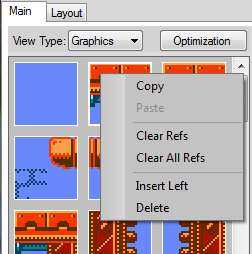
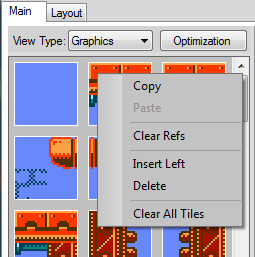
MAPeD: tile operations: "Clear All Refs" renamed to "Clear All Tiles"

diff --git a/src/MAPeD/src/MainForm.Designer.cs b/src/MAPeD/src/MainForm.Designer.cs
@@ -207,6 +207,7 @@ namespace MAPeD
 			this.CheckBoxTileEditorLock = new System.Windows.Forms.CheckBox();
 			this.PBoxTilePreview = new System.Windows.Forms.PictureBox();
 			this.TabScreenEditor = new System.Windows.Forms.TabPage();
+			this.BtnPatterns = new System.Windows.Forms.Button();
 			this.BtnTilesBlocks = new System.Windows.Forms.Button();
 			this.groupBox8 = new System.Windows.Forms.GroupBox();
 			this.RBtnScreenEditModeLayout = new System.Windows.Forms.RadioButton();
@@ -318,10 +319,11 @@ namespace MAPeD
 			this.pasteTileToolStripMenuItem = new System.Windows.Forms.ToolStripMenuItem();
 			this.separatorToolStripMenuItem4 = new System.Windows.Forms.ToolStripSeparator();
 			this.clearTileToolStripMenuItem = new System.Windows.Forms.ToolStripMenuItem();
-			this.clearAllTileToolStripMenuItem = new System.Windows.Forms.ToolStripMenuItem();
 			this.toolStripSeparator21 = new System.Windows.Forms.ToolStripSeparator();
 			this.insertLeftTileToolStripMenuItem = new System.Windows.Forms.ToolStripMenuItem();
 			this.deleteTileToolStripMenuItem3 = new System.Windows.Forms.ToolStripMenuItem();
+			this.toolStripSeparator28 = new System.Windows.Forms.ToolStripSeparator();
+			this.clearAllTilesToolStripMenuItem = new System.Windows.Forms.ToolStripMenuItem();
 			this.ContextMenuBlocksList = new System.Windows.Forms.ContextMenuStrip(this.components);
 			this.copyBlockToolStripMenuItem = new System.Windows.Forms.ToolStripMenuItem();
 			this.pasteBlockCloneToolStripMenuItem = new System.Windows.Forms.ToolStripMenuItem();
@@ -343,7 +345,6 @@ namespace MAPeD
 			this.toolStripMenuItem2 = new System.Windows.Forms.ToolStripMenuItem();
 			this.colorDialogEntity = new System.Windows.Forms.ColorDialog();
 			this.EntityLoadBitmap_openFileDialog = new System.Windows.Forms.OpenFileDialog();
-			this.BtnPatterns = new System.Windows.Forms.Button();
 			this.ContextMenuEntitiesTreeGroup.SuspendLayout();
 			this.MenuStrip.SuspendLayout();
 			this.tabControlMainLayout.SuspendLayout();
@@ -1937,6 +1938,16 @@ namespace MAPeD
 			this.TabScreenEditor.TabIndex = 1;
 			this.TabScreenEditor.Text = "Screens";
 			// 
+			// BtnPatterns
+			// 
+			this.BtnPatterns.Location = new System.Drawing.Point(678, 106);
+			this.BtnPatterns.Name = "BtnPatterns";
+			this.BtnPatterns.Size = new System.Drawing.Size(80, 23);
+			this.BtnPatterns.TabIndex = 53;
+			this.BtnPatterns.Text = "Patterns";
+			this.BtnPatterns.UseVisualStyleBackColor = true;
+			this.BtnPatterns.Click += new System.EventHandler(this.BtnPatternsClick_Event);
+			// 
 			// BtnTilesBlocks
 			// 
 			this.BtnTilesBlocks.Location = new System.Drawing.Point(678, 78);
@@ -3063,64 +3074,70 @@ namespace MAPeD
 									this.pasteTileToolStripMenuItem,
 									this.separatorToolStripMenuItem4,
 									this.clearTileToolStripMenuItem,
-									this.clearAllTileToolStripMenuItem,
 									this.toolStripSeparator21,
 									this.insertLeftTileToolStripMenuItem,
-									this.deleteTileToolStripMenuItem3});
+									this.deleteTileToolStripMenuItem3,
+									this.toolStripSeparator28,
+									this.clearAllTilesToolStripMenuItem});
 			this.ContextMenuTilesList.Name = "ContextMenuTilesList";
-			this.ContextMenuTilesList.Size = new System.Drawing.Size(144, 148);
+			this.ContextMenuTilesList.Size = new System.Drawing.Size(153, 176);
 			// 
 			// copyTileToolStripMenuItem
 			// 
 			this.copyTileToolStripMenuItem.Name = "copyTileToolStripMenuItem";
-			this.copyTileToolStripMenuItem.Size = new System.Drawing.Size(143, 22);
+			this.copyTileToolStripMenuItem.Size = new System.Drawing.Size(152, 22);
 			this.copyTileToolStripMenuItem.Text = "Copy";
 			this.copyTileToolStripMenuItem.Click += new System.EventHandler(this.CopyTileToolStripMenuItemClick_Event);
 			// 
 			// pasteTileToolStripMenuItem
 			// 
 			this.pasteTileToolStripMenuItem.Name = "pasteTileToolStripMenuItem";
-			this.pasteTileToolStripMenuItem.Size = new System.Drawing.Size(143, 22);
+			this.pasteTileToolStripMenuItem.Size = new System.Drawing.Size(152, 22);
 			this.pasteTileToolStripMenuItem.Text = "Paste";
 			this.pasteTileToolStripMenuItem.Click += new System.EventHandler(this.PasteTileToolStripMenuItemClick_Event);
 			// 
 			// separatorToolStripMenuItem4
 			// 
 			this.separatorToolStripMenuItem4.Name = "separatorToolStripMenuItem4";
-			this.separatorToolStripMenuItem4.Size = new System.Drawing.Size(140, 6);
+			this.separatorToolStripMenuItem4.Size = new System.Drawing.Size(149, 6);
 			// 
 			// clearTileToolStripMenuItem
 			// 
 			this.clearTileToolStripMenuItem.Name = "clearTileToolStripMenuItem";
-			this.clearTileToolStripMenuItem.Size = new System.Drawing.Size(143, 22);
+			this.clearTileToolStripMenuItem.Size = new System.Drawing.Size(152, 22);
 			this.clearTileToolStripMenuItem.Text = "Clear Refs";
 			this.clearTileToolStripMenuItem.Click += new System.EventHandler(this.ClearTileToolStripMenuItemClick_Event);
-			// 
-			// clearAllTileToolStripMenuItem
-			// 
-			this.clearAllTileToolStripMenuItem.Name = "clearAllTileToolStripMenuItem";
-			this.clearAllTileToolStripMenuItem.Size = new System.Drawing.Size(143, 22);
-			this.clearAllTileToolStripMenuItem.Text = "Clear All Refs";
-			this.clearAllTileToolStripMenuItem.Click += new System.EventHandler(this.ClearAllTileToolStripMenuItemClick_Event);
 			// 
 			// toolStripSeparator21
 			// 
 			this.toolStripSeparator21.Name = "toolStripSeparator21";
-			this.toolStripSeparator21.Size = new System.Drawing.Size(140, 6);
+			this.toolStripSeparator21.Size = new System.Drawing.Size(149, 6);
 			// 
 			// insertLeftTileToolStripMenuItem
 			// 
 			this.insertLeftTileToolStripMenuItem.Name = "insertLeftTileToolStripMenuItem";
-			this.insertLeftTileToolStripMenuItem.Size = new System.Drawing.Size(143, 22);
+			this.insertLeftTileToolStripMenuItem.Size = new System.Drawing.Size(152, 22);
 			this.insertLeftTileToolStripMenuItem.Text = "Insert Left";
 			this.insertLeftTileToolStripMenuItem.Click += new System.EventHandler(this.InsertLeftTileToolStripMenuItemClick_Event);
 			// 
 			// deleteTileToolStripMenuItem3
 			// 
 			this.deleteTileToolStripMenuItem3.Name = "deleteTileToolStripMenuItem3";
-			this.deleteTileToolStripMenuItem3.Size = new System.Drawing.Size(143, 22);
+			this.deleteTileToolStripMenuItem3.Size = new System.Drawing.Size(152, 22);
 			this.deleteTileToolStripMenuItem3.Text = "Delete";
 			this.deleteTileToolStripMenuItem3.Click += new System.EventHandler(this.DeleteTileToolStripMenuItem3Click_Event);
+			// 
+			// toolStripSeparator28
+			// 
+			this.toolStripSeparator28.Name = "toolStripSeparator28";
+			this.toolStripSeparator28.Size = new System.Drawing.Size(149, 6);
+			// 
+			// clearAllTilesToolStripMenuItem
+			// 
+			this.clearAllTilesToolStripMenuItem.Name = "clearAllTilesToolStripMenuItem";
+			this.clearAllTilesToolStripMenuItem.Size = new System.Drawing.Size(152, 22);
+			this.clearAllTilesToolStripMenuItem.Text = "Clear All Tiles";
+			this.clearAllTilesToolStripMenuItem.Click += new System.EventHandler(this.ClearAllTileToolStripMenuItemClick_Event);
 			// 
 			// ContextMenuBlocksList
 			// 
@@ -3277,16 +3294,6 @@ namespace MAPeD
 			this.EntityLoadBitmap_openFileDialog.Title = "Load Entity Image";
 			this.EntityLoadBitmap_openFileDialog.FileOk += new System.ComponentModel.CancelEventHandler(this.EntityLoadBitmap_openFileDialogFileOk);
 			// 
-			// BtnPatterns
-			// 
-			this.BtnPatterns.Location = new System.Drawing.Point(678, 106);
-			this.BtnPatterns.Name = "BtnPatterns";
-			this.BtnPatterns.Size = new System.Drawing.Size(80, 23);
-			this.BtnPatterns.TabIndex = 53;
-			this.BtnPatterns.Text = "Patterns";
-			this.BtnPatterns.UseVisualStyleBackColor = true;
-			this.BtnPatterns.Click += new System.EventHandler(this.BtnPatternsClick_Event);
-			// 
 			// MainForm
 			// 
 			this.AutoScaleMode = System.Windows.Forms.AutoScaleMode.None;
@@ -3370,6 +3377,7 @@ namespace MAPeD
 			this.ResumeLayout(false);
 			this.PerformLayout();
 		}
+		private System.Windows.Forms.ToolStripSeparator toolStripSeparator28;
 		private System.Windows.Forms.Button BtnPatterns;
 		private System.Windows.Forms.Label label7;
 		private System.Windows.Forms.ComboBox ComboBoxEntityZoom;
@@ -3587,7 +3595,7 @@ namespace MAPeD
 		private System.Windows.Forms.Button BtnLayoutAddUpRow;
 		private System.Windows.Forms.ToolStripMenuItem clearRefsBlockToolStripMenuItem;
 		private System.Windows.Forms.SaveFileDialog Project_exportFileDialog;
-		private System.Windows.Forms.ToolStripMenuItem clearAllTileToolStripMenuItem;
+		private System.Windows.Forms.ToolStripMenuItem clearAllTilesToolStripMenuItem;
 		private System.Windows.Forms.ToolStripMenuItem clearTileToolStripMenuItem;
 		private System.Windows.Forms.ToolStripSeparator separatorToolStripMenuItem4;
 		private System.Windows.Forms.ToolStripMenuItem pasteTileToolStripMenuItem;

diff --git a/src/MAPeD/src/MainForm.cs b/src/MAPeD/src/MainForm.cs
@@ -1817,7 +1817,7 @@ namespace MAPeD
 		
 		void ClearAllTileToolStripMenuItemClick_Event(object sender, EventArgs e)
 		{
-			if( message_box( "Are you sure?\n\nWARNING: ALL the blocks references for all the tiles will be set to zero!", "Clear Tiles", MessageBoxButtons.YesNo, MessageBoxIcon.Question ) == DialogResult.Yes )
+			if( message_box( "Are you sure?\n\nWARNING: ALL the blocks references for all the tiles will be set to zero!", "Clear All Tiles", MessageBoxButtons.YesNo, MessageBoxIcon.Question ) == DialogResult.Yes )
 			{
 				tiles_data data = m_data_manager.get_tiles_data( m_data_manager.tiles_data_pos );
 				
